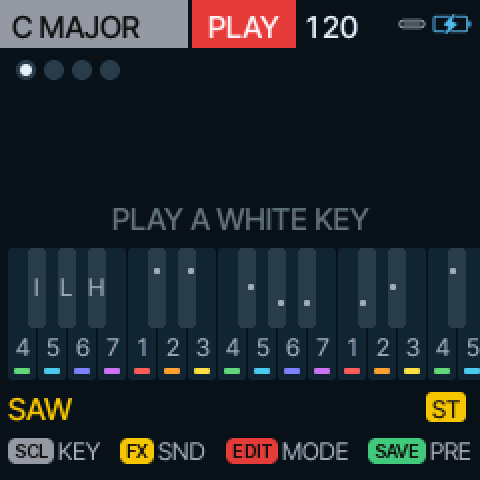
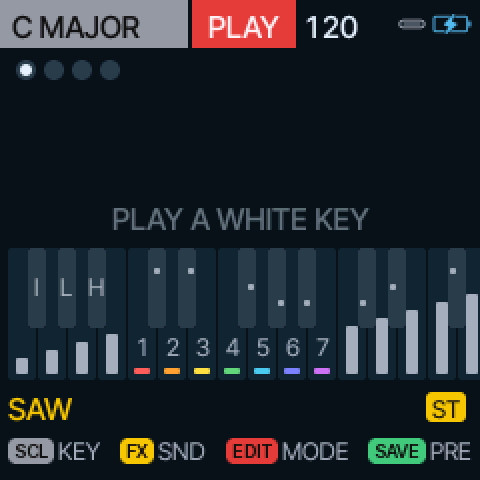
The strumplate: the outer white keys play the chord's notes one by one, as on an Omnichord
In the chord modes the nine white keys outside C4..B4 no longer repeat the
degrees an octave down and up: each plays one note of the chord last
built, rising from its root at C4 octave after octave, so a swipe strums
it. The plate follows the chord as it changes and keeps the last one once
the keys are up (the piano shows it dim, the plate note white); before any
chord it plays the tonic's. HOLD does not latch a plate note, DRONE does
not keep it, OCT- / OCT+ move it with the chords. SEQ, DRUM, the games and
the mixer keep the keys as they were. The HOME legend and the controls
diagram mark the plate keys with a bar that rises with the note; the
README says so.

diff --git a/firmware/src/hichord.c b/firmware/src/hichord.c
@@ -1,8 +1,10 @@
 /* SPDX-License-Identifier: GPL-3.0-only
  * Copyright (C) 2026 fm1-chord contributors */
 /* The HiChord key layer (CHRD HI, chord.c): the white keys are scale degrees of the track's ROOT / SCALE
- * (DEGREE layout: C4 is the tonic, F3..B3 the degrees below it an octave down, C5..G5 an octave up;
- * PIANO layout: the key's own letter is the root, snapped onto the scale), the black keys the eight
+ * (DEGREE layout: C4 is the tonic and C4..B4 its seven degrees; PIANO layout: the key's own letter is
+ * the root, snapped onto the scale). In the chord modes the white keys outside C4..B4 are the strumplate
+ * (hc_plate_on: one note of the chord last played each, rising); in the other modes they are the degrees
+ * an octave down (F3..B3) and up (C5..G5). The black keys are the eight
  * modifier directions and three gestures:
  *   C#4 up, D#4 up-right, F#4 right, G#4 down-right, A#4 down, C#5 down-left, D#5 left, F#5 up-left
  *   F#3 INVERT (with chord keys held: their inversion cycles), G#3 LOCK (with a chord key and a
@@ -429,6 +431,71 @@ static void hc_chord_of_key(track_t *t, uint32_t k, uint8_t *nn, uint32_t *np)
     hc.cur_key = was;
 }
 
+/* -------------------------------------------------- the strumplate (fm1-chord) --- */
+/* After the Omnichord: the nine white keys outside C4..B4 (F3 G3 A3 B3, C5 D5 E5 F5 G5) each play one note
+ * of the chord last built, rising from its root in the octave above the chord keys (a triad spans three
+ * octaves, a seventh chord two and a bit); dragged across, they strum it. In the chord modes only (PLAY
+ * STRUM LEAD DRONE ARP REPEAT); the other modes keep the keys as their own. Before any chord has played,
+ * the tonic's. OCT- / OCT+ move it with the chords. A plate note is the key's own (kb_chord), outside
+ * hc.order: HOLD, the directions and SLASH leave it alone. */
+#define HC_PLATE_BASE 60                                 /* the first plate key: the root at C4 (chords: C3) */
+static uint8_t hc_plate[27];                             /* per key: the plate note it holds, 0 none */
+
+/* 0..8: the key's place on the plate; -1: not a plate key (black, inside C4..B4, or not a chord mode) */
+static int32_t hc_plate_of_key(const track_t *t, uint32_t k)
+{
+    uint32_t p;
+    if (key_black(k) || hc_of(t)->play > HP_REPEAT)
+        return -1;
+    p = key_place(k);
+    return p < 4u ? (int32_t)p : p >= 11u ? (int32_t)(p - 7u) : -1;
+}
+
+/* the note of plate place j for the chord last built: its pitch classes from the root up, octave after octave */
+static uint32_t hc_plate_note(uint32_t j)
+{
+    uint8_t pc[12];
+    uint32_t n = 0, i, m, root = (uint32_t)(hc.cur_root % 12 + 12) % 12u, x;
+    for (i = 0; i < hc.cur.n; i++) {
+        uint32_t c;
+        if (hc.cur.note[i] > 127u)
+            continue;
+        c = (hc.cur.note[i] + 12u - root) % 12u;
+        for (m = 0; m < n && pc[m] != c; m++)
+            ;
+        if (m < n)
+            continue;
+        for (m = n; m > 0 && pc[m - 1u] > c; m--)
+            pc[m] = pc[m - 1u];
+        pc[m] = (uint8_t)c;
+        n++;
+    }
+    if (!n)
+        return 0;
+    x = (uint32_t)(HC_PLATE_BASE + 12 * song.octave) + root + pc[j % n] + 12u * (j / n);
+    return x > 127u ? 127u : x;
+}
+
+static void hc_plate_on(track_t *t, uint32_t k, uint32_t j)
+{
+    uint32_t x;
+    if (!hc.cur.n) {                                     /* nothing played yet: the tonic chord (the C4 key's) */
+        uint8_t nn[CHORD_MAX];
+        uint32_t n;
+        hc_chord_of_key(t, 7u, nn, &n);
+    }
+    if (kb_chn[k])
+        key_off(k, t);
+    x = hc_plate_note(j);
+    hc_plate[k] = (uint8_t)x;
+    if (!x)
+        return;
+    if (!midi_local_held(t, x))                          /* (a chord key holds it already: it sounds) */
+        hc_note_on(t, x);
+    kb_chord[k][0] = (uint8_t)x;
+    kb_chn[k] = 1;
+}
+
 /* the arp plays the chord of key k (the last pressed) */
 static void hc_arp_take(track_t *t, uint32_t k)
 {
@@ -650,6 +717,13 @@ static void hc_key_on(uint32_t k, track_t *t)
     const hc_trk_t *c = hc_of(t);
     uint32_t ti = trk_index(t), i, n;
     uint8_t nn[CHORD_MAX];
+    {
+        int32_t j = hc_plate_of_key(t, k);
+        if (j >= 0) {                                    /* a strumplate key: one note of the chord */
+            hc_plate_on(t, k, (uint32_t)j);
+            return;
+        }
+    }
     hc_order_add(k);
     if ((hc.latched >> k) & 1u) {                        /* HOLD: it sounds already */
         hc.latched &= ~(1u << k);
@@ -767,6 +841,12 @@ static void hc_key_off(uint32_t k, track_t *t)
 {
     const hc_trk_t *c = hc_of(t);
     uint32_t ti = trk_index(t);
+    if (hc_plate[k] || hc_plate_of_key(t, k) >= 0) {     /* a strumplate key: its note ends (HOLD, DRONE: not kept) */
+        hc_plate[k] = 0;
+        if (kb_chn[k])
+            key_off(k, t);
+        return;
+    }
     if (c->play == HP_DRONE)
         return;                                          /* it rings until the next chord or another mode */
     if (c->play == HP_DRUM) {
@@ -828,6 +908,7 @@ static void hc_play_set(track_t *t, uint32_t play)
                 key_off(k, t);
             kb_chn[k] = 0;
             hc.strum[k].n = 0;
+            hc_plate[k] = 0;
             hc.latched &= ~(1u << k);
         }
     for (k = hc.nheld; k > 0; k--)                       /* the keys down stay down, they just sound no more */

diff --git a/firmware/src/hui.c b/firmware/src/hui.c
@@ -1256,20 +1256,25 @@ static void hui_draw_piano(uint32_t deg)
 {
     static const uint8_t WHITE_OF[12] = {0, 0, 1, 1, 2, 3, 3, 4, 4, 5, 5, 6};   /* the white key at or below */
     static const uint8_t IS_BLACK[12] = {0, 1, 0, 1, 0, 0, 1, 0, 1, 0, 1, 0};
-    uint16_t col = deg < 7u ? HC_DEG_COL[deg] : HC_YELLOW;
-    uint32_t i, n = hc.cur.n, lo = 127, hi = 0, start, root = (uint32_t)(hc.cur.root + 1200) % 12u;
-    uint8_t on[128];
+    uint16_t col = deg < 7u ? HC_DEG_COL[deg] : HC_YELLOW, ccol;
+    uint32_t i, lo = 127, hi = 0, start, root = (uint32_t)(hc.cur.root + 1200) % 12u, held = fm1_in.notes | hc.latched;
+    uint8_t on[128];                                     /* 1 a note of the chord, 2 a strumplate note */
     memset(on, 0, sizeof on);
-    for (i = 0; i < n; i++) {
-        uint32_t x = hc.cur.note[i];
-        if (x > 127u)
-            continue;
-        on[x] = 1;
-        if (x < lo) lo = x;
-        if (x > hi) hi = x;
-    }
+    for (i = 0; i < hc.cur.n; i++)
+        if (hc.cur.note[i] <= 127u)
+            on[hc.cur.note[i]] = 1;
+    for (i = 0; i < 27u; i++)
+        if (((held >> i) & 1u) && hc_plate[i])
+            on[hc_plate[i]] = 2;
+    for (i = 0; i < 128u; i++)
+        if (on[i]) {
+            if (i < lo) lo = i;
+            if (i > hi) hi = i;
+        }
     if (lo > hi)
         return;
+    ccol = hc.nheld || hc.latched ? col : T_MID;         /* the chord in colour while a chord key sounds, else dim:
+                                                          * the plate strums the chord last played */
     start = lo - lo % 12u;
     if (hi >= start + 48u) {
         start = hi - 47u;
@@ -1280,24 +1285,22 @@ static void hui_draw_piano(uint32_t deg)
     for (i = start; i < start + 48u && i < 128u; i++)
         if (on[i] && !IS_BLACK[i % 12u]) {
             int32_t x = 8 + (int32_t)((i - start) / 12u * 7u + WHITE_OF[i % 12u]) * 8;
-            cv_rrect(x, 2, 7, 66, 1, col, T_BG);
-            if (i % 12u == root)
-                cv_rrect(x + 2, 60, 3, 3, 1, HC_INK, col);
+            uint16_t c = on[i] == 2u ? HC_INK : ccol;
+            cv_rrect(x, 2, 7, 66, 1, c, T_BG);
+            if (on[i] == 1u && i % 12u == root)
+                cv_rrect(x + 2, 60, 3, 3, 1, HC_INK, c);
         }
     for (i = start; i < start + 48u && i < 128u; i++)
         if (IS_BLACK[i % 12u]) {
             int32_t x = 8 + (int32_t)((i - start) / 12u * 7u + WHITE_OF[i % 12u]) * 8 + 5;
-            cv_rrect(x, 2, 5, 40, 1, on[i] ? col : T_RAISE, T_BG);
-            if (on[i] && i % 12u == root)
-                cv_rrect(x + 1, 32, 3, 3, 1, HC_INK, col);
+            uint16_t c = on[i] == 2u ? HC_INK : on[i] ? ccol : T_RAISE;
+            cv_rrect(x, 2, 5, 40, 1, c, T_BG);
+            if (on[i] == 1u && i % 12u == root)
+                cv_rrect(x + 1, 32, 3, 3, 1, HC_INK, c);
         }
-    for (i = 0; i < n; i++) {
-        uint32_t x = hc.cur.note[i];
-        if (x < start)
-            cv_rrect(2, 32, 4, 4, 2, col, T_BG);
-        else if (x >= start + 48u)
-            cv_rrect(234, 32, 4, 4, 2, col, T_BG);
-    }
+    for (i = 0; i < 128u; i++)                           /* a note beyond the window: a dot at that edge */
+        if (on[i] && (i < start || i >= start + 48u))
+            cv_rrect(i < start ? 2 : 234, 32, 4, 4, 2, on[i] == 2u ? HC_INK : ccol, T_BG);
 }
 
 /* HOME's middle: the chord big, its degree and modifier; the keyboard; the sound and the effects */
@@ -1401,10 +1404,15 @@ static void hui_draw_home(void)
         for (i = 0; i < 27u; i++) {
             uint32_t p = key_place(i), on = (held >> i) & 1u;
             if (!key_black(i)) {
-                int32_t o;
+                int32_t o, j = hc_plate_of_key(TSEL, i), x = x0 + (int32_t)p * (ww + 1);
                 uint32_t d = hc_degree_of_key(TSEL, i, &o) % 7u;
-                int32_t x = x0 + (int32_t)p * (ww + 1);
                 char dn[2] = {(char)('1' + d), 0};
+                if (j >= 0) {                            /* a strumplate key: a bar as high as its note */
+                    int32_t h = 8 + j * 4;
+                    cv_rrect(x, 2, ww, 66, 2, on ? HC_INK : T_SURF, T_BG);
+                    cv_rrect(x + 4, 65 - h, ww - 8, h, 1, on ? T_BG : T_MID, on ? HC_INK : T_SURF);
+                    continue;
+                }
                 cv_rrect(x, 2, ww, 66, 2, on ? HC_DEG_COL[d] : T_SURF, T_BG);
                 cv_rrect(x + 3, 62, ww - 6, 3, 1, HC_DEG_COL[d], on ? HC_DEG_COL[d] : T_SURF);   /* the degree's colour */
                 cv_text_c(x + ww / 2, 44, &AF_S, dn, on ? HC_INK : T_MID, on ? HC_DEG_COL[d] : T_SURF);   /* its number */

diff --git a/tests/hichord_test.c b/tests/hichord_test.c
@@ -104,6 +104,9 @@ static int name_is(uint32_t k, const char *want)
 #define K_A4 16u
 #define K_B4 18u
 #define K_C5 19u
+#define K_G3 2u
+#define K_B3 6u
+#define K_G5 26u
 #define K_INVERT 1u                                /* F#3 */
 #define K_LOCK 3u                                  /* G#3 */
 #define K_HOLD 5u                                  /* A#3 */
@@ -236,6 +239,45 @@ static int tables(void)
     hc.t[0].mode = HM_OG;
     hc.dir = HD_DR;    bad += check("OG: as DEFAULT (Cmaj9)", name_is(K_C4, "Cmaj9"));
     hc.dir = HD_NONE; hc.t[0].mode = HM_DEFAULT;
+    return bad;
+}
+
+/* the strumplate: the nine outer white keys play the chord last built, one note each, rising from its root at C4 */
+static int plate(void)
+{
+    int bad = 0;
+    track_t *t = &trk[0];
+    reset();
+    key_down(K_F3);
+    bad += check("strumplate before any chord: the tonic's (F3 key: C4), no chord key held", gate_note(t, 60) && ngated(t) == 1u && hc.nheld == 0u);
+    key_up(K_F3);
+    bad += check("  let go: it ends", ngated(t) == 0u);
+    hc.hold = 1;
+    key_down(K_G3); key_up(K_G3);
+    bad += check("  HOLD does not latch a plate note", ngated(t) == 0u);
+    hc.hold = 0;
+    key_down(K_A4); key_up(K_A4);                      /* Am */
+    key_down(K_F3); key_down(K_G3); key_down(K_B3); key_down(K_C5); key_down(K_G5);
+    bad += check("after Am: F3 A4, G3 C5, B3 A5, C5 C6, G5 E7 (A C E from the root, octave after octave)",
+                 gate_note(t, 69) && gate_note(t, 72) && gate_note(t, 81) && gate_note(t, 84) && gate_note(t, 100) && ngated(t) == 5u);
+    key_up(K_F3); key_up(K_G3); key_up(K_B3); key_up(K_C5); key_up(K_G5);
+    key_down(K_C4);                                    /* C held: the plate follows it */
+    key_down(K_C5);
+    bad += check("C held, the C5 key: E5 (its fifth plate note); the chord keeps sounding",
+                 gate_note(t, 76) && gate_note(t, 48) && gate_note(t, 52) && gate_note(t, 55) && ngated(t) == 4u);
+    key_up(K_C5);
+    bad += check("  the plate key up: its note ends, the chord stays", !gate_note(t, 76) && ngated(t) == 3u);
+    key_up(K_C4);
+    song.octave = 1;
+    key_down(K_F3);
+    bad += check("OCT+: the plate an octave up (F3 key: C5)", gate_note(t, 72) && ngated(t) == 1u);
+    key_up(K_F3);
+    song.octave = 0;
+    hc_play_set(t, HP_SEQ);                            /* not a chord mode: the key is a degree an octave down */
+    key_down(K_F3);
+    bad += check("SEQ mode: F3 is the IV chord an octave down again (F2 A2 C3)", gate_note(t, 41) && gate_note(t, 45) && gate_note(t, 48));
+    key_up(K_F3);
+    hc_play_set(t, HP_PLAY);
     return bad;
 }
 
@@ -626,7 +668,7 @@ static int stereo_master(void)
 
 int main(void)
 {
-    int bad = degrees() + tables() + keys() + gestures() + bass_voices_leading() + midi_in_steps() + play_modes() + stereo_master();
+    int bad = degrees() + tables() + keys() + plate() + gestures() + bass_voices_leading() + midi_in_steps() + play_modes() + stereo_master();
     printf("%s\n", bad ? "HICHORD TEST FAILED" : "hichord keys test passed");
     return bad != 0;
 }

diff --git a/tools/gen_controls_diagram.py b/tools/gen_controls_diagram.py
@@ -72,9 +72,14 @@ def key_labels(d, ky):
     for i in range(16):
         x, deg = white_x(i), (i + 3) % 7
         cx = x + KW / 2
-        d.rounded_rectangle((cx - 9, ky + KH - 39, cx + 9, ky + KH - 21), 4, fill=KEY_W)
-        d.text((cx, ky + KH - 30), str(deg + 1), fill=(90, 90, 96), font=font(13, 600), anchor="mm")
-        d.rectangle((x + 6, ky + KH - 14, x + KW - 6, ky + KH - 8), fill=DEG[deg])
+        if 4 <= i <= 10:                                 # a chord key: its degree, in the degree's colour
+            d.rounded_rectangle((cx - 9, ky + KH - 39, cx + 9, ky + KH - 21), 4, fill=KEY_W)
+            d.text((cx, ky + KH - 30), str(deg + 1), fill=(90, 90, 96), font=font(13, 600), anchor="mm")
+            d.rectangle((x + 6, ky + KH - 14, x + KW - 6, ky + KH - 8), fill=DEG[deg])
+        else:                                            # a strumplate key: a bar as high as its note
+            j, h = (i if i < 4 else i - 7), 10 + (i if i < 4 else i - 7) * 5
+            d.rounded_rectangle((cx - 8, ky + KH - 12 - h - 2, cx + 8, ky + KH - 12 + 2), 3, fill=KEY_W)
+            d.rounded_rectangle((cx - 6, ky + KH - 12 - h, cx + 6, ky + KH - 12), 2, fill=(150, 150, 156))
     for p, a in enumerate(BLACK_AFTER):
         x = white_x(a) + KW - 11
         col = GREEN if p < 3 else YELLOW
@@ -209,8 +214,8 @@ def main(out):
     d.rounded_rectangle((16, ly, W - 16, H - 12), 12, fill=CARD)
     f15, f13 = font(15, 600), font(13, 450)
     d.text((34, ly + 12), "WHITE KEYS", fill=DIM, font=F_TITLE)
-    d.text((34, ly + 28), "Scale degrees, numbered on the keys: C4 is 1 (I), D4 2 (ii) … B4 7 (vii); F3–B3 an octave down, C5–G5 up",
-           fill=INK, font=f15)
+    d.text((34, ly + 28), "C4–B4 play chords: the scale degrees 1–7 (I, ii … vii).  F3–B3 and C5–G5: the strumplate, "
+                          "one note of the chord each, rising — swipe to strum", fill=INK, font=f15)
     d.text((34, ly + 50), "BLACK KEYS", fill=DIM, font=F_TITLE)
     d.text((34, ly + 66), "C#4 ↑  D#4 ↗  F#4 →  G#4 ↘  A#4 ↓  C#5 ↙  D#5 ←  F#5 ↖  the HiChord's joystick, held with a chord;  "
                           "F#3 INVERT  G#3 LOCK  A#3 HOLD", fill=INK, font=f15)

diff --git a/spec/docs/11-hardware-findings.md b/spec/docs/11-hardware-findings.md
@@ -157,6 +157,18 @@ the resonance coefficients needs a runtime helper the part lacks; the host has i
 the previous build and the knobs looked unchanged; fixed with 32-bit divisions. The build step's
 output must be checked for the app line, not only for errors.
 
+## The strumplate (owner's request, 2026-10-09)
+
+The nine white keys outside C4..B4 (F3 G3 A3 B3, C5 D5 E5 F5 G5) no longer repeat the degrees an
+octave down and up in the chord modes; they are a strumplate after the Omnichord's: each plays one
+note of the chord last built, rising from its root at C4 (chords sound at C3), octave after octave
+(a triad over three octaves). A swipe strums the chord. The plate follows the chord as it changes
+and keeps the last chord once the keys are up (the piano then shows it dim, the plate note white);
+before any chord it plays the tonic's. HOLD does not latch plate notes, DRONE does not keep them;
+OCT- / OCT+ move them with the chords. The other modes (SEQ, DRUM, the games, the mixer) keep the
+keys as they were. The HOME legend marks the plate keys with a bar that rises with the note.
+hichord.c: hc_plate_of_key / hc_plate_note / hc_plate_on, tested in hichord_test plate().
+
 ## ACOUSTIC GTR (owner's request)
 
 A plucky acoustic guitar for leads: a new PHYS preset on the string model (STRC 38, just above the

diff --git a/README.md b/README.md
@@ -4,8 +4,10 @@ A custom firmware that turns the M-VAVE FM-1 pocket synth into a HiChord-style c
 Built on [Felucca](https://github.com/hugelton/Felucca). Clean-room: nothing from the HiChord's firmware.
 
 **White keys play chords.** Each white key is a scale degree in the current key and scale, so every
-chord fits: C4 is I, D4 is ii, and so on, across two octaves. The screen names the chord and shows
-its notes on a piano; at rest it shows what every key does.
+chord fits: C4 is I, D4 is ii, up to B4 as vii. The white keys outside that octave are a strumplate,
+as on an Omnichord: each plays one note of the chord last played, rising from key to key, so a swipe
+across them strums it. The screen names the chord and shows its notes on a piano; at rest it shows
+what every key does.
 
 **Black keys change them.** The eight black keys of the middle octaves are the HiChord's joystick
 directions (7ths, 9ths, sus, dim, aug, borrowed chords, in four tables); F#3 cycles the inversion
